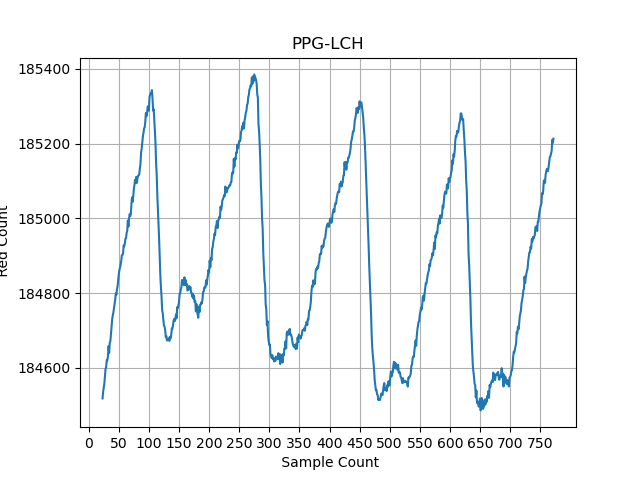
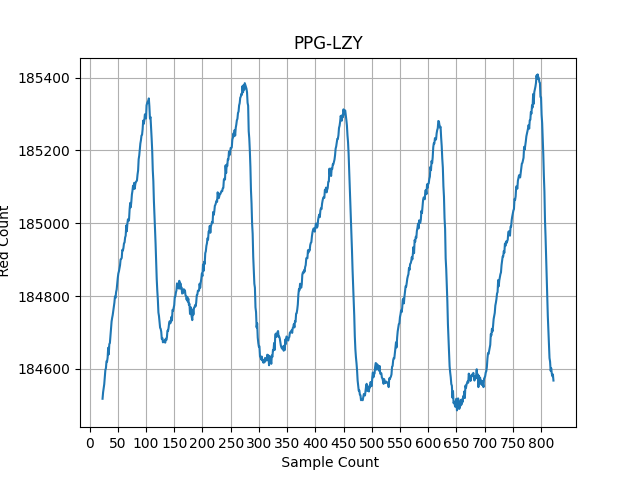
1

diff --git a/智能传感与检测技术/实验/实验E/2.py b/智能传感与检测技术/实验/实验E/2.py
@@ -2,7 +2,7 @@ import pandas as pd
 import matplotlib.pyplot as plt
 
 # 读取CSV文件
-file_path = 'D:/李昭阳/大学/University_Junior_Fall/智能传感与检测技术/实验/实验E/ECPPG_2023-10-26 lzyPPG.csv'
+file_path = 'D:/大学/University_Junior_Fall/智能传感与检测技术/实验/实验E/ECPPG_2023-10-26 lchPPG.csv'
 # file_path = 'D:/大学/University_Junior_Fall/智能传感与检测技术/实验/实验E/ECPPG_2023-10-26 lzy.csv'
 data = pd.read_csv(file_path)
 
@@ -11,11 +11,11 @@ x_column = ' Sample Count'
 y_column = ' Red Count'
 
 # 截取数据集的一部分
-start_index = (len(data) ) // 2
-end_index = start_index + 100
-# subset_df = data.iloc[start_index:end_index]
-subset_df = data.iloc[0:len(data)//2]
-# subset_df[x_column] = subset_df[x_column] - 99387
+start_index = (len(data) + 1000) // 2
+end_index = start_index + 800
+subset_df = data.iloc[start_index:end_index]
+# subset_df = data.iloc[0:len(data)//2]
+subset_df[x_column] = subset_df[x_column] - 99387
 
 # 绘图
 plt.plot(subset_df[x_column], subset_df[y_column])
